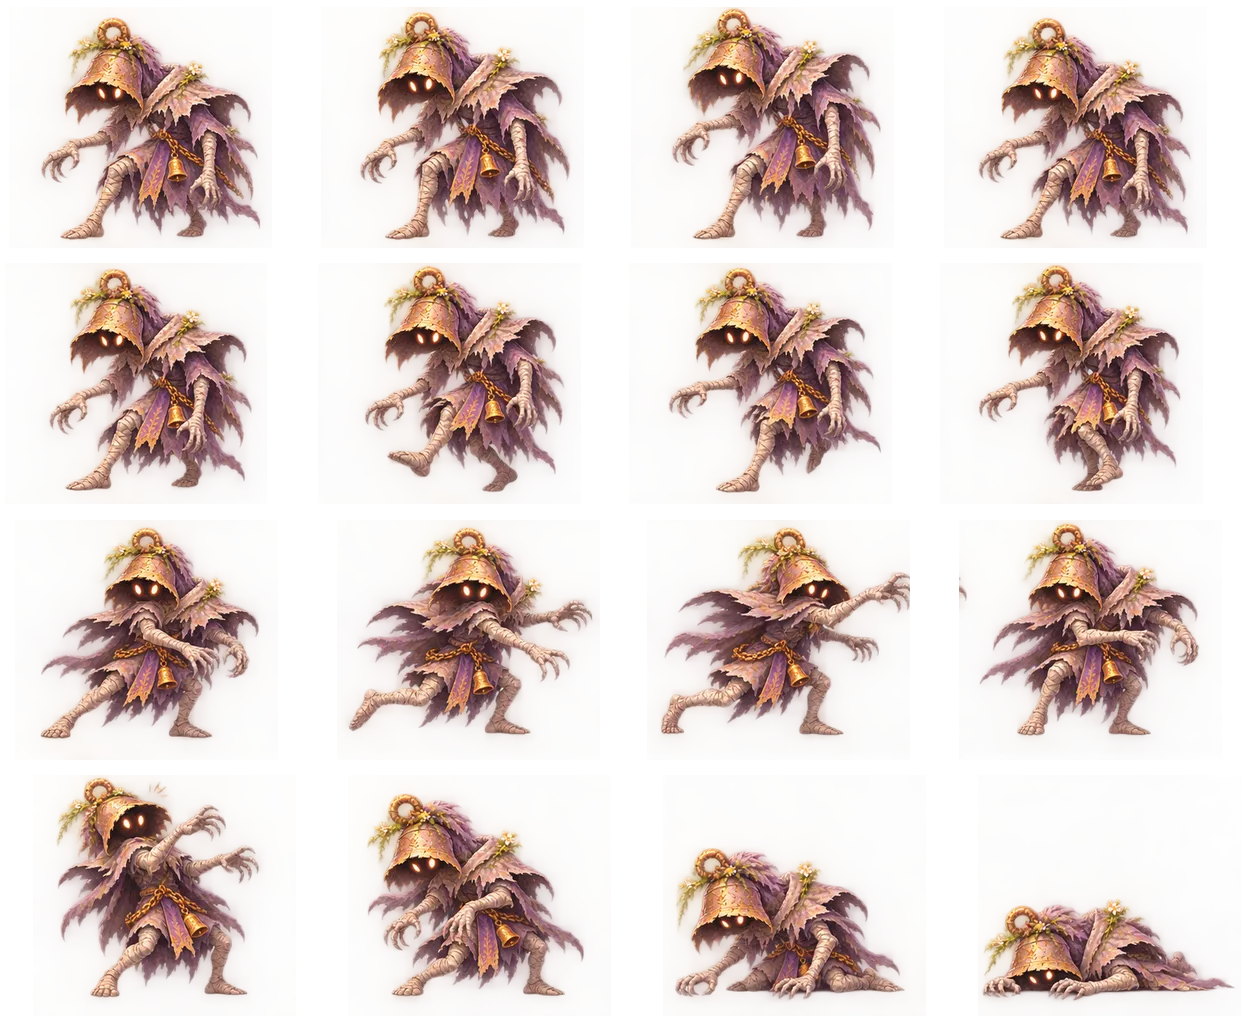
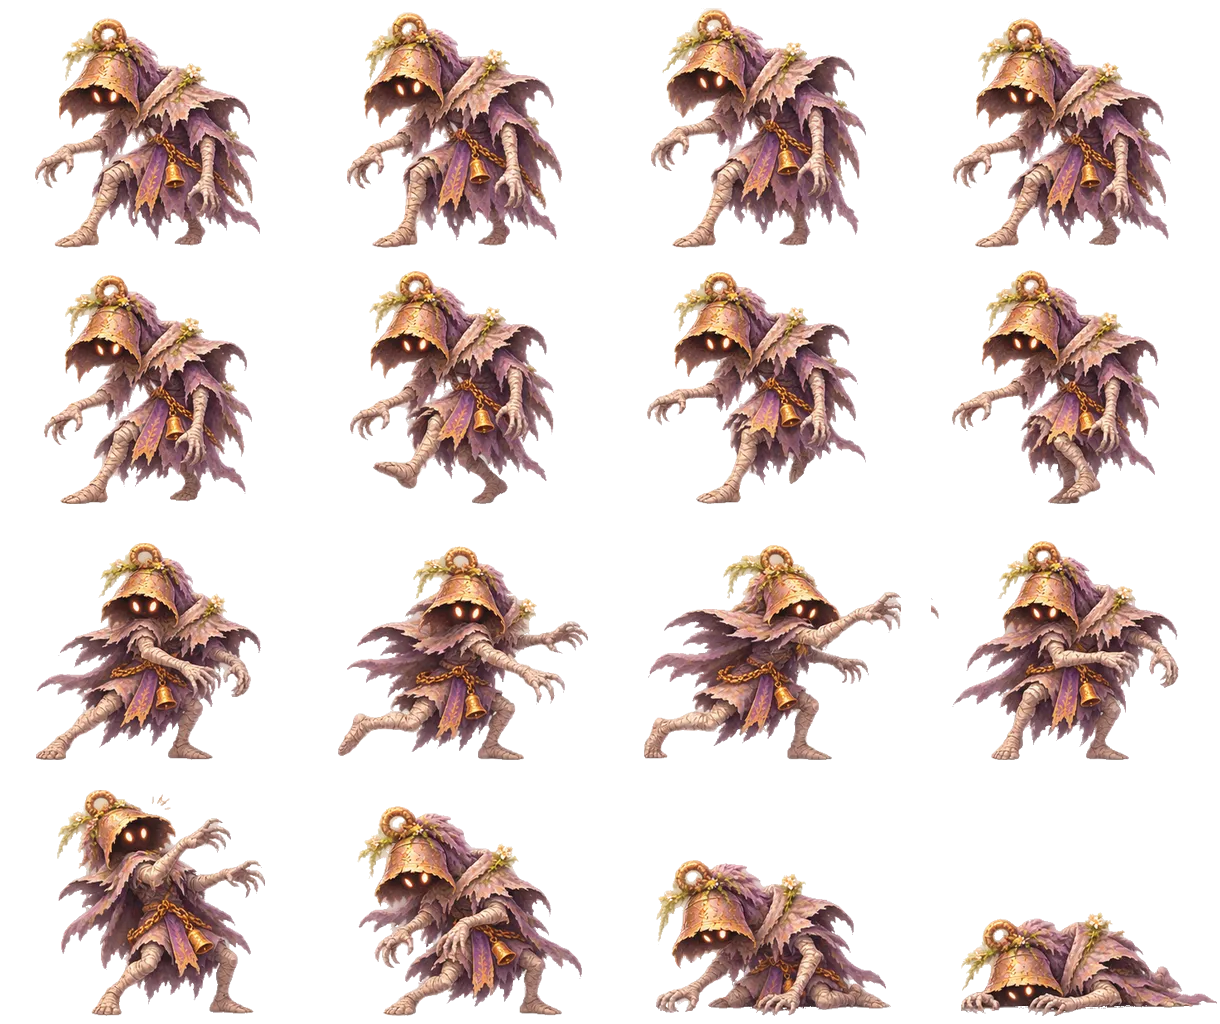
메아리 계약: 재료 한도 999 → 99,999(울림 가루·범용 조각 셋·메아리 결정), 동작 시트 25장의 뿌연 배경(그림에 그려진 회색 바둑판·후광) 지움; art-sheet.mjs에 안개 지우기(기본 켬, --keep-haze)
Claude-Session: https://claude.ai/code/session_017zsjwGZcK4uy8TjuLCWJuX

diff --git a/games/echopact/shared/content/index.ts b/games/echopact/shared/content/index.ts
@@ -149,10 +149,10 @@ export const ITEMS = {
   tonic: { kind: 'potion', price: 12, heal: 80 },
   ...GEAR_ITEMS,
   // 카드의 공통 손질 (HERO_RULES.cards): 메아리 결정(다 키운 메아리의 넘친 조각이 바뀐 것)과 범용 조각(등급마다, 그 등급의 메아리 조각 하나). 결정 상점(GOODS의 shop 'gShopCrystal')에서 바꾼다
-  echoCrystal: { kind: 'mat', price: 0, max: 9999 },
-  wildCommon: { kind: 'mat', price: 0, max: 999 },
-  wildRare: { kind: 'mat', price: 0, max: 999 },
-  wildLegend: { kind: 'mat', price: 0, max: 999 },
+  echoCrystal: { kind: 'mat', price: 0, max: 99999 },
+  wildCommon: { kind: 'mat', price: 0, max: 99999 },
+  wildRare: { kind: 'mat', price: 0, max: 99999 },
+  wildLegend: { kind: 'mat', price: 0, max: 99999 },
 } as const satisfies Record<string, ItemDef>;
 export const START_WEAPON: ItemId = 'blade1';
 export const SHOP_STOCK: readonly ItemId[] = ['tonic', 'blade2', 'jerkin', 'chain'];

diff --git a/games/echopact/shared/content/gear.ts b/games/echopact/shared/content/gear.ts
@@ -15,7 +15,7 @@ export const GEAR_ITEMS = {
   valecoat: { kind: 'armor', price: 0, guard: 0.92, tier: 1 },
   hornmail: { kind: 'armor', price: 0, guard: 0.85, tier: 2 },
   // 분해하면 나오는 가루: 강화(+5부터)에만 쓴다. 한 장비를 +10까지 올리는 데 수백이 들 수 있어 한도를 넉넉히
-  echodust: { kind: 'mat', price: 0, max: 999 },
+  echodust: { kind: 'mat', price: 0, max: 99999 },
 } as const satisfies Record<string, ItemDef>;
 
 /** 장비 레벨(GEAR.levelOf: 이끼둥이 1, 가시멧돼지 2, 돌뿔소 5)이 4 이상이면 돌뿔의 바탕 */
